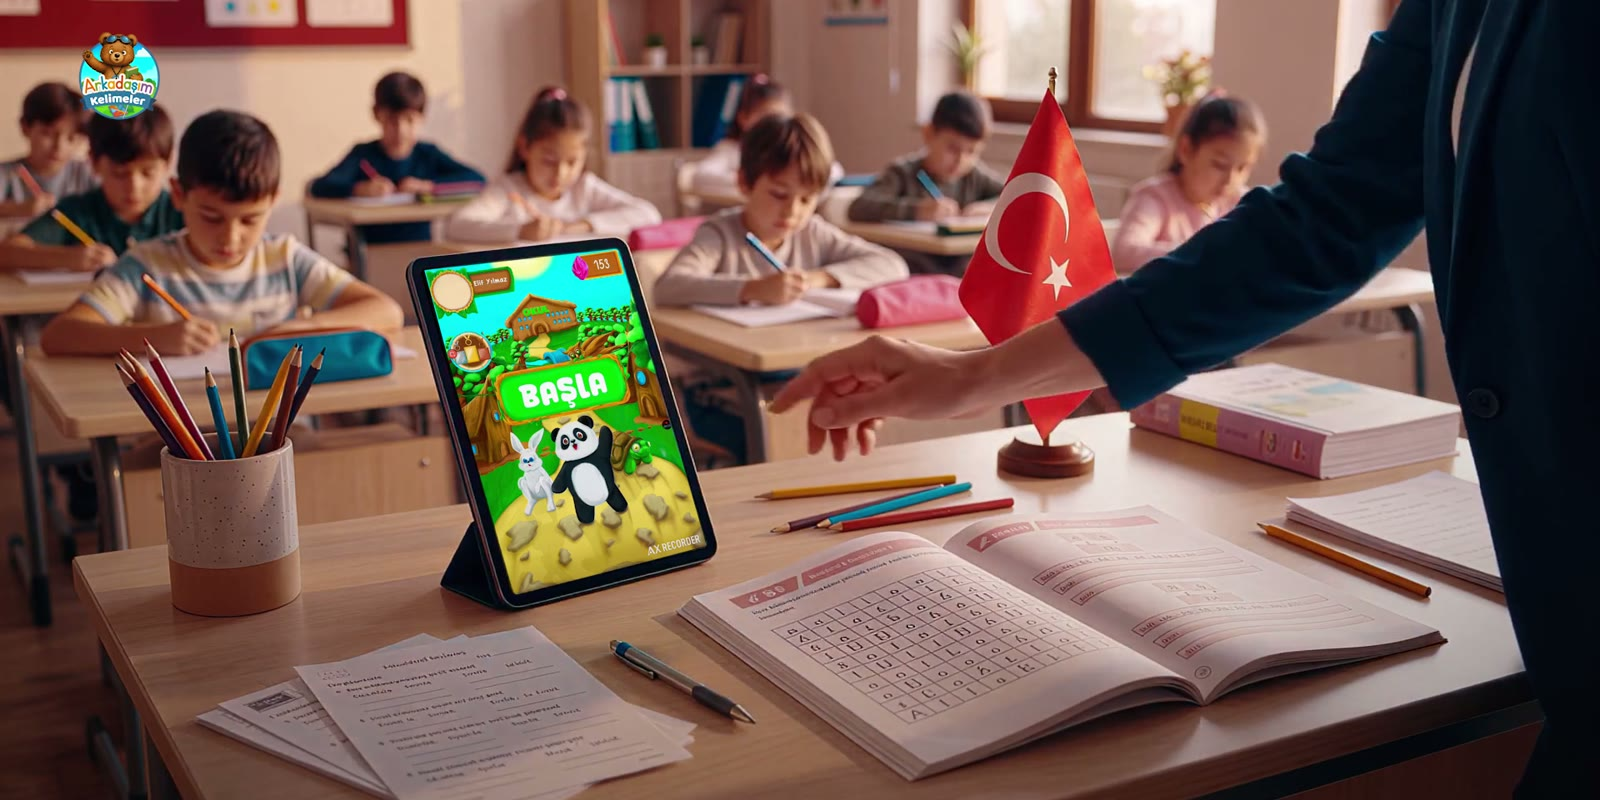
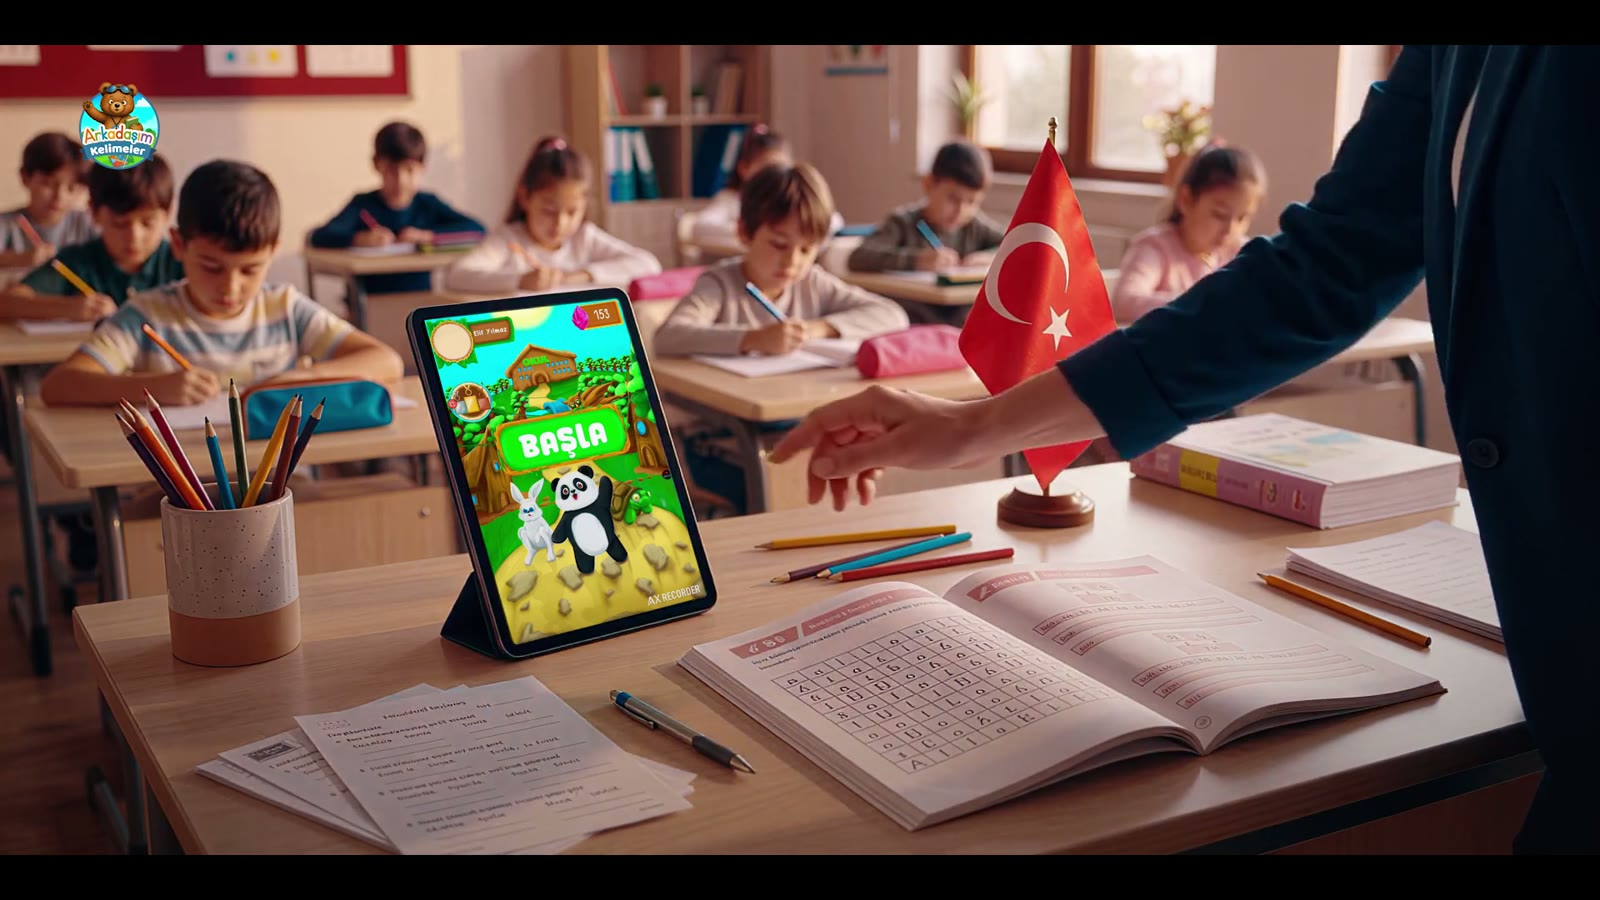
Stop cropping the film
No crop anywhere: the frame takes the video's own 16:9, object-fit is
contain in the frame and in full screen, and the poster is the plain
frame from 0:38 rather than the letterbox-cropped one. The film shows
as it was made, black bars included, on black.

Cropping was how I filled the frame and the screen edge to edge. Filling
costs picture, and the picture is not mine to spend.

Claude-Session: https://claude.ai/code/session_01MGLSLrmtckx3JqW12WLXoG

diff --git a/eski-tasarim.css b/eski-tasarim.css
@@ -2196,7 +2196,7 @@ section > .container,
 .tanitim-cerceve {
     position: relative;
     max-width: 100%;
-    aspect-ratio: 2 / 1;
+    aspect-ratio: 16 / 9;      /* videonun kendi oranı: kırpmaya gerek kalmasın */
     border: 2.5px solid var(--ink);
     border-radius: 22px;
     background: var(--ink);
@@ -2207,9 +2207,7 @@ section > .container,
     display: block;
     width: 100%; height: 100%;
     max-width: 100%;
-    /* cover: 16:9 kaynağı 2:1 çerçeveye otururken filmin kendi siyah
-       bantlarından kırpıyor, görüntüden değil. */
-    object-fit: cover;
+    object-fit: contain;       /* kırpma yok — film olduğu gibi */
     background: #000;
 }
 
@@ -2275,13 +2273,13 @@ section > .container,
        aradaki fark sağda boşluk olarak kalıyordu. */
     width: 100vw; height: 100vh;
     max-width: 100vw; max-height: 100vh;
-    object-fit: cover;
+    object-fit: contain;       /* kırpma yok */
     background: #000;
 }
 #tanitim-video:-webkit-full-screen {
     width: 100vw; height: 100vh;
     max-width: 100vw; max-height: 100vh;
-    object-fit: cover;
+    object-fit: contain;       /* kırpma yok */
     background: #000;
 }
 

diff --git a/style.css b/style.css
@@ -2196,7 +2196,7 @@ section > .container,
 .tanitim-cerceve {
     position: relative;
     max-width: 100%;
-    aspect-ratio: 2 / 1;
+    aspect-ratio: 16 / 9;      /* videonun kendi oranı: kırpmaya gerek kalmasın */
     border: 2.5px solid var(--ink);
     border-radius: 22px;
     background: var(--ink);
@@ -2207,9 +2207,7 @@ section > .container,
     display: block;
     width: 100%; height: 100%;
     max-width: 100%;
-    /* cover: 16:9 kaynağı 2:1 çerçeveye otururken filmin kendi siyah
-       bantlarından kırpıyor, görüntüden değil. */
-    object-fit: cover;
+    object-fit: contain;       /* kırpma yok — film olduğu gibi */
     background: #000;
 }
 
@@ -2275,13 +2273,13 @@ section > .container,
        aradaki fark sağda boşluk olarak kalıyordu. */
     width: 100vw; height: 100vh;
     max-width: 100vw; max-height: 100vh;
-    object-fit: cover;
+    object-fit: contain;       /* kırpma yok */
     background: #000;
 }
 #tanitim-video:-webkit-full-screen {
     width: 100vw; height: 100vh;
     max-width: 100vw; max-height: 100vh;
-    object-fit: cover;
+    object-fit: contain;       /* kırpma yok */
     background: #000;
 }
 

diff --git a/eski-tasarim.html b/eski-tasarim.html
@@ -11,7 +11,7 @@
     <link href="https://fonts.googleapis.com/css2?family=Nunito:wght@400;600;700;800;900&family=Baloo+2:wght@400;500;600;700;800&display=swap" rel="stylesheet">
     <link href="https://fonts.cdnfonts.com/css/scrambled-tofu" rel="stylesheet">
     <link rel="stylesheet" href="https://cdnjs.cloudflare.com/ajax/libs/font-awesome/6.5.1/css/all.min.css">
-    <link rel="stylesheet" href="eski-tasarim.css?v=78">
+    <link rel="stylesheet" href="eski-tasarim.css?v=79">
 </head>
 <body>
 
@@ -284,7 +284,7 @@
 <section class="tanitim-band">
     <div class="container fade-in">
         <div class="tanitim-cerceve" id="tanitim-cerceve">
-            <video id="tanitim-video" src="tanitim.mp4?v=1" poster="tanitim-afis.jpg?v=1"
+            <video id="tanitim-video" src="tanitim.mp4?v=1" poster="tanitim-afis.jpg?v=2"
                    playsinline preload="none"></video>
             <button type="button" class="tanitim-afis" id="tanitim-ac" aria-label="Tanıtım filmini oynat">
                 <span class="tanitim-perdelik" aria-hidden="true"></span>

diff --git a/index.html b/index.html
@@ -11,7 +11,7 @@
     <link href="https://fonts.googleapis.com/css2?family=Nunito:wght@400;600;700;800;900&family=Baloo+2:wght@400;500;600;700;800&display=swap" rel="stylesheet">
     <link href="https://fonts.cdnfonts.com/css/scrambled-tofu" rel="stylesheet">
     <link rel="stylesheet" href="https://cdnjs.cloudflare.com/ajax/libs/font-awesome/6.5.1/css/all.min.css">
-    <link rel="stylesheet" href="style.css?v=85">
+    <link rel="stylesheet" href="style.css?v=86">
 </head>
 <body>
 
@@ -284,7 +284,7 @@
 <section class="tanitim-band">
     <div class="container fade-in">
         <div class="tanitim-cerceve" id="tanitim-cerceve">
-            <video id="tanitim-video" src="tanitim.mp4?v=1" poster="tanitim-afis.jpg?v=1"
+            <video id="tanitim-video" src="tanitim.mp4?v=1" poster="tanitim-afis.jpg?v=2"
                    playsinline preload="none"></video>
             <button type="button" class="tanitim-afis" id="tanitim-ac" aria-label="Tanıtım filmini oynat">
                 <span class="tanitim-perdelik" aria-hidden="true"></span>
